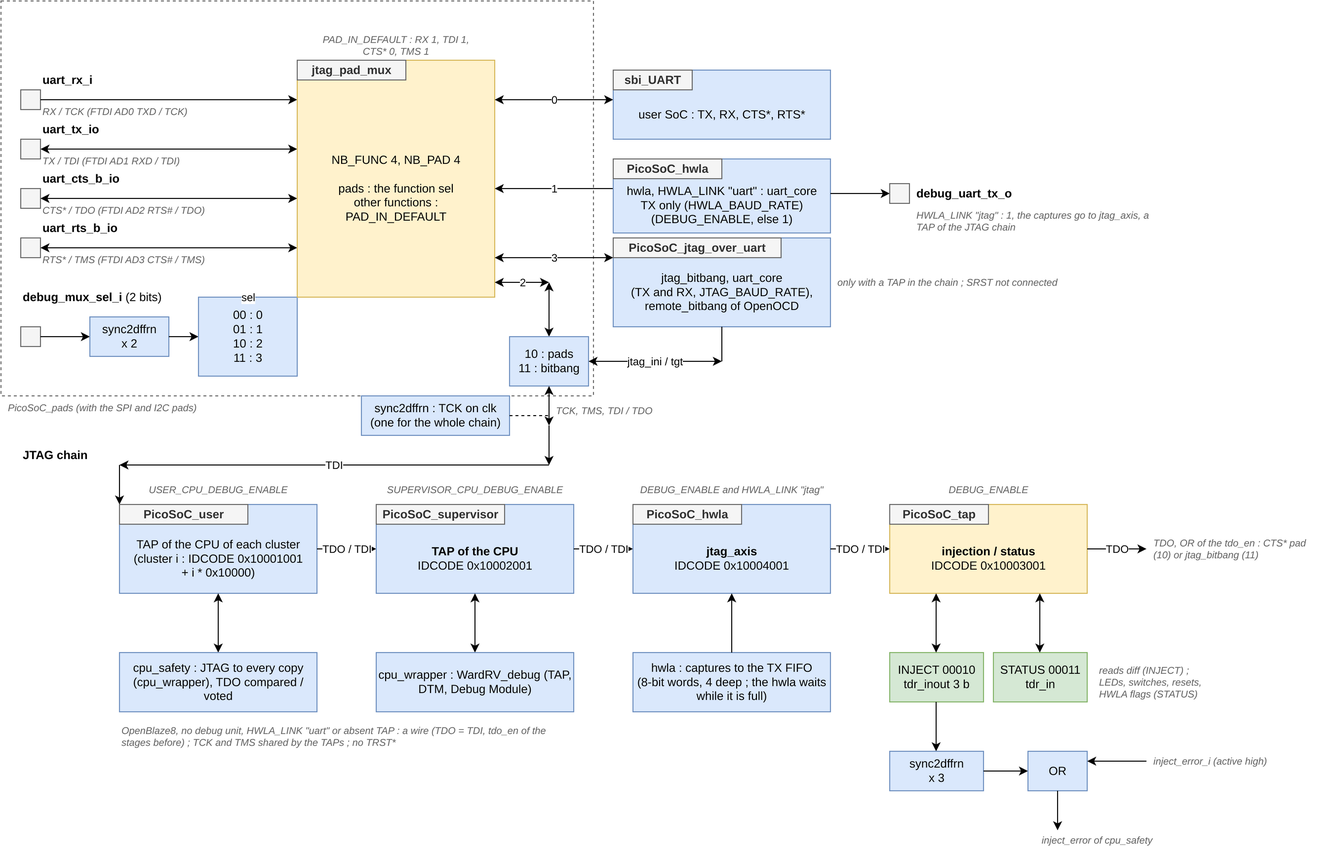
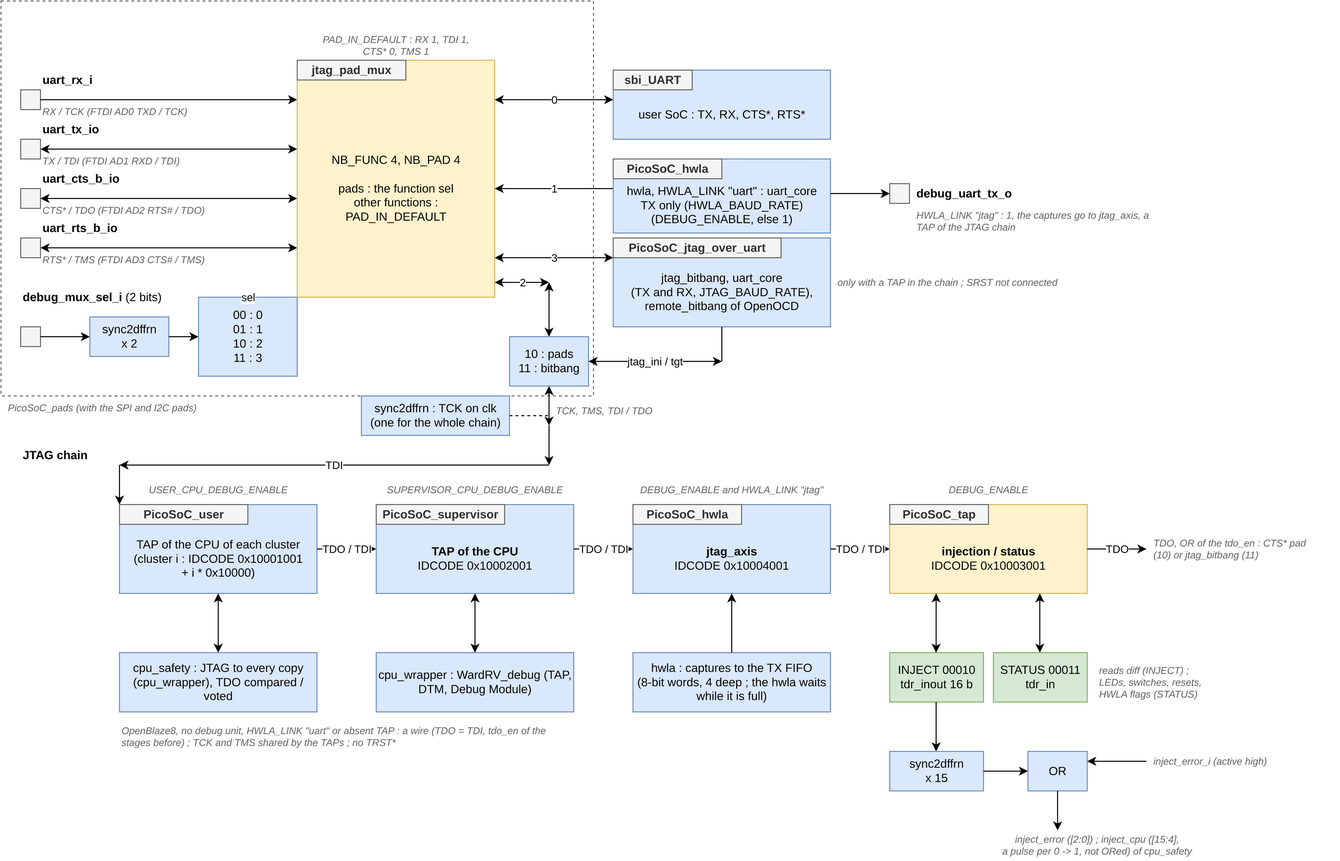
PicoSoC - injection inside the CPUs : 4 bits per CPU copy (INJECT [7:4], [11:8], [15:12] ; the reserved bits 7, 11, 15 become the bit 3 of each copy, [3] stays reserved), inject_cpu_i of PicoSoC_user and cpu_safety on 12 bits, inject_i of cpu_wrapper on 4 bits (default "0000", e.g. bits 2:0 the copi

diff --git a/README.md b/README.md
@@ -451,7 +451,7 @@ With `DEBUG_ENABLE = true`, `PicoSoC_top` instantiates `PicoSoC_hwla` ([hdl/Pico
   | 56:39 (OpenBlaze8), 70:39 (WardRV_fsm) | Instruction (output of the ROM) | `idata` |
   | 59:57 (OpenBlaze8), 73:71 (WardRV_fsm) | Difference flags `diff` of the user SoC (bit 0 CPU0 vs CPU1, 1 CPU1 vs CPU2, 2 CPU2 vs CPU0; sticky until the reset of the user SoC; 000 with `USER_SAFETY = "none"`) | `diff` |
 
-- Trigger: the error injection that reaches the CPUs, whatever its source (push buttons `inject_error_i` or INJECT of the injection / status TAP): the rising edge of the OR of the 3 traps of `PicoSoC_inject` (`USER_FAULT_INJECTION`) and of the pulses of the injection inside the CPUs (INJECT [6:4], [10:8], [14:12]), registered in `PicoSoC_top`; only the copies present (`USER_SAFETY`) count. The trap, not the request: a request of one cycle sets a trap, which flips the instruction bit from its next cycle, so the trigger sample is the first cycle of the error; the edge, not the level: one capture per injection, also while a trap stays set (`USER_SAFETY = "none"`: no difference flag clears it). The HWLA works in every safety configuration; the field `diff` of the capture shows whether and when the compare saw the error (lock-step, TMR: a few to about 60 clock cycles after the trigger in the simulations; none: never).
+- Trigger: the error injection that reaches the CPUs, whatever its source (push buttons `inject_error_i` or INJECT of the injection / status TAP): the rising edge of the OR of the 3 traps of `PicoSoC_inject` (`USER_FAULT_INJECTION`) and of the pulses of the injection inside the CPUs (INJECT [7:4], [11:8], [15:12], the 4 bits of each copy), registered in `PicoSoC_top`; only the copies present (`USER_SAFETY`) count. The trap, not the request: a request of one cycle sets a trap, which flips the instruction bit from its next cycle, so the trigger sample is the first cycle of the error; the edge, not the level: one capture per injection, also while a trap stays set (`USER_SAFETY = "none"`: no difference flag clears it). The HWLA works in every safety configuration; the field `diff` of the capture shows whether and when the compare saw the error (lock-step, TMR: a few to about 60 clock cycles after the trigger in the simulations; none: never).
 - Capture: `HWLA_DEPTH` stored samples (64 by default; 1024 on the NG-MEDIUM targets), `HWLA_PRE_TRIGGER` before the trigger sample (32 by default; 16 on the NG-MEDIUM targets: the capture is mostly after the error), a `HWLA_TIMESTAMP_WIDTH`-bit timestamp (16, cycles of the SoC clock), changes only: a sample is stored when a probe changes (and for the first sample, the trigger sample and the timestamp 0), so a capture of 64 samples covers about 70 (OpenBlaze8) to 130 (WardRV_fsm) clock cycles of the main loop of [esw/demo/user.c](esw/demo/user.c) (tens of instructions), 1024 samples about 1000 to 2000 cycles. `arm_i` is tied to 1: a new capture starts after each extraction, and waits for the next injection.
 - Clock and reset: the SoC clock for both domains of the HWLA, and the reset of the supervisor SoC: a capture goes on while the supervisor resets the user SoC.
 - Output: the bytes of the capture (`TDATA_WIDTH = 8`; with a 16-bit timestamp, a sample is 10 bytes (OpenBlaze8: 60 probes and the timestamp, 76 bits) or 12 bytes (WardRV_fsm: 74 probes, 90 bits), from the LSB; a capture is 640 or 768 bytes with the default generics, 10240 or 12288 bytes on the NG-MEDIUM targets) go to the link chosen by `HWLA_LINK`:
@@ -536,10 +536,10 @@ The IDCODEs (`PICOSOC_JTAG_IDCODE_*` of `PicoSoC_pkg`) are version 1, manufactur
 
 | Instruction | TDR | Bits (from the LSB, first shifted out) |
 |-------------|-----|----------------------------------------|
-| INJECT `00010` | `jtag_tdr_inout`, 16 bits | written, nibble aligned: [2:0] error injection outside the CPUs, bit `i` in CPU `i` (as `inject_error_i`, active high: the instruction bit `SEU_BIT`; trapped, a 1 -> 0 clears the trap of CPU `i`); [6:4], [10:8], [14:12] error injection inside the CPU copy 0, 1, 2, bit `4+4*i+k` = request `k` of copy `i`: a pulse of one SoC clock cycle on bit `k` of `inject_i` (3 bits) of the `cpu_wrapper` of copy `i` (`inject_cpu_i` of `cpu_safety`, 3 x 3 bits, every cluster) for each 0 -> 1 of the bit, so one error per write; unused by the reference CPUs: free for a hardened CPU, connected to its own injection; [3], [7], [11], [15] reserved (0). A write sets the 16 bits: writing the bits inside the CPUs also writes [2:0]. Read: `diff` of the user SoC in [2:0] (0 CPU0 vs CPU1, 1 CPU1 vs CPU2, 2 CPU2 vs CPU0, sticky until the reset of the user SoC), 0 in [15:3] |
+| INJECT `00010` | `jtag_tdr_inout`, 16 bits | written, nibble aligned: [2:0] error injection outside the CPUs, bit `i` in CPU `i` (as `inject_error_i`, active high: the instruction bit `SEU_BIT`; trapped, a 1 -> 0 clears the trap of CPU `i`); [3] reserved (0); [7:4], [11:8], [15:12] error injection inside the CPU copy 0, 1, 2, bit `4+4*i+k` = request `k` of copy `i` (for example bits 2:0 the copies of a TMR register, bit 3 the register file): a pulse of one SoC clock cycle on bit `k` of `inject_i` (4 bits) of the `cpu_wrapper` of copy `i` (`inject_cpu_i` of `cpu_safety`, 3 x 4 bits, every cluster) for each 0 -> 1 of the bit, so one error per write; unused by the reference CPUs: free for a hardened CPU, connected to its own injection. A write sets the 16 bits: writing the bits inside the CPUs also writes [2:0]. Read: `diff` of the user SoC in [2:0] (0 CPU0 vs CPU1, 1 CPU1 vs CPU2, 2 CPU2 vs CPU0, sticky until the reset of the user SoC), 0 in [15:3] |
 | STATUS `00011` | `jtag_tdr_in`, `USER_NB_LED0 + USER_NB_LED1 + 3 + USER_NB_SWITCH + 2 + 4` bits (33 with the defaults) | `led0_o`, `led1_o`, `led_diff_o`, `switch_i`, the resets: user SoC, supervisor SoC (`1`: running), then the flags of the HWLA (`status_o` of `PicoSoC_hwla`): arm (`arm_i`, tied to 1), armed (capture started, trigger not yet seen), triggered (trigger seen, capture not yet extracted), sending (a byte of the capture offered to its link) |
 
-The injection written by an Update-DR (falling edge of TCK) goes through a `sync2dffrn` per bit to the SoC clock. The 9 bits inside the CPUs then go through a register and give a pulse on the rising edge of each bit (`inject_cpu` of `PicoSoC_top` to `PicoSoC_user`, `cpu_safety` and `cpu_wrapper`, gated by `USER_FAULT_INJECTION` in `cpu_safety`; it is also a trigger of the HWLA). [2:0] is ORed with `inject_error_i` after its polarity (`USER_FAULT_POLARITY`) and resynchronized, in `PicoSoC_inject`: either sets the trap of the copy (see [CPU safety](#cpu-safety)). The written value stays until the next scan of INJECT, a Test-Logic-Reset or the power-on reset; a bit written back to 0 clears the trap of its copy (the way to stop an error without safety, where no difference flag clears it). The read values are quasi-static (LEDs, switches, sticky difference flags, resets) or single flags (HWLA): they are loaded in Capture-DR without synchronizer, a bit that changes during the capture may be read old or new.
+The injection written by an Update-DR (falling edge of TCK) goes through a `sync2dffrn` per bit to the SoC clock. The 12 bits inside the CPUs then go through a register and give a pulse on the rising edge of each bit (`inject_cpu` of `PicoSoC_top` to `PicoSoC_user`, `cpu_safety` and `cpu_wrapper`, gated by `USER_FAULT_INJECTION` in `cpu_safety`; it is also a trigger of the HWLA). [2:0] is ORed with `inject_error_i` after its polarity (`USER_FAULT_POLARITY`) and resynchronized, in `PicoSoC_inject`: either sets the trap of the copy (see [CPU safety](#cpu-safety)). The written value stays until the next scan of INJECT, a Test-Logic-Reset or the power-on reset; a bit written back to 0 clears the trap of its copy (the way to stop an error without safety, where no difference flag clears it). The read values are quasi-static (LEDs, switches, sticky difference flags, resets) or single flags (HWLA): they are loaded in Capture-DR without synchronizer, a bit that changes during the capture may be read old or new.
 
 **CPU debug units** (`USER_CPU_DEBUG_ENABLE`, `SUPERVISOR_CPU_DEBUG_ENABLE`, `CPU_MODEL = "WardRV_fsm"`): each `cpu_wrapper` with `DEBUG_ENABLE` instantiates `WardRV_debug` of [asylum-processor-WardRV](https://github.com/deuskane/asylum-processor-WardRV) (TAP, DTM, Debug Module with a program buffer of 2 words and 2 data registers, no system bus access, no TRST*) next to its `sbi_WardRV_fsm`: the halt requests and the debug memory stay inside `cpu_wrapper`, which only has the JTAG pins, the power-on reset of the debug unit and `ndmreset`. With lock-step or TMR, every copy of the CPU has its debug unit: `cpu_safety` receives a TCK already resynchronized on the SoC clock (by `PicoSoC_top`, see JTAG timing below) and gives the JTAG pins to every copy like their other inputs (to CPU1 through the lock-step delay line), and checks their TDO and `ndmreset` like their other outputs (compared with CPU0, which drives them, in lock-step; voted in TMR). So a halted, stepped or resumed CPU stays in lock-step: no difference flag. The supervisor CPU has no copy: `PicoSoC_supervisor` gives the JTAG pins to its debug unit. The debug units are reset by the reset of the supervisor (power-on), not by a reset of the user SoC; `ndmreset` of a debug unit resets the SoC of its CPU (the supervisor SoC holds the user SoC in reset).
 
@@ -622,7 +622,7 @@ With `ft232r`, RXD and CTS# are outputs of the cable and RTS# an input (`ft232r 
 
 | Chain file | Role |
 |------------|------|
-| [picosoc.cfg](tools/openocd/picosoc.cfg) | The JTAG chain (the list `picosoc_chain`: chip, TAP and IDCODE of each TAP, from TDO), a riscv target for each CPU TAP (GDB ports 3333, 3334 ... in the order of the chain), the commands `picosoc_inject <errors>` (INJECT of the injection / status TAP, raw 16 bits: [2:0] outside the CPUs, [6:4], [10:8], [14:12] inside the CPU copy 0, 1, 2), `picosoc_inject_cpu <copy> <mask>` (one injection inside the CPU copy, mask of 3 bits; writes `mask << (4 + 4 * copy)`, then 0, [2:0] at 0), `picosoc_status` (its STATUS), `picosoc_hwla_status` and `picosoc_hwla_dump` (the HWLA, see [Debug: HWLA](#debug-hwla); with the procedures of `jtag_axis.tcl`, a copy of the one of asylum-debug-jtag), then `init`. Any PicoSoC bitstream, no argument: see the two modes below |
+| [picosoc.cfg](tools/openocd/picosoc.cfg) | The JTAG chain (the list `picosoc_chain`: chip, TAP and IDCODE of each TAP, from TDO), a riscv target for each CPU TAP (GDB ports 3333, 3334 ... in the order of the chain), the commands `picosoc_inject <errors>` (INJECT of the injection / status TAP, raw 16 bits: [2:0] outside the CPUs, [7:4], [11:8], [15:12] inside the CPU copy 0, 1, 2), `picosoc_inject_cpu <copy> <mask>` (one injection inside the CPU copy, mask of 4 bits; writes `mask << (4 + 4 * copy)`, then 0, [2:0] at 0), `picosoc_status` (its STATUS), `picosoc_hwla_status` and `picosoc_hwla_dump` (the HWLA, see [Debug: HWLA](#debug-hwla); with the procedures of `jtag_axis.tcl`, a copy of the one of asylum-debug-jtag), then `init`. Any PicoSoC bitstream, no argument: see the two modes below |
 | [picosoc_cmds.tcl](tools/openocd/picosoc_cmds.tcl) | Short commands of the telnet session, sourced by `picosoc.cfg` (`picosoc_help`): `status` (state and pc of every CPU), `select <cpu>`, `stop` / `run` (one CPU or `stop_all` / `run_all`), `stepi`, `halt_cause`, `pc`, `regs`, `read_reg` / `write_reg`, `read_mem` / `write_mem` (32 bits) and `read_byte` / `write_byte` (8 bits: the peripheral registers), `bp_add` / `bp_del`. A CPU is given by its name (`user.cpu0`, `supervisor.cpu`), a short name (`user`, `user1`, `sup`) or its index in `status`. Without System Bus Access, memory is accessed by the CPU itself (program buffer), only while it is halted: `read_mem` / `write_mem` halt a running CPU for the access, then resume it. Checked by the co-simulation `sim_soc3x2_wardrv_fsm_c_user_openocd_generic` |
 | [discover.cfg](tools/openocd/discover.cfg) | Declares no TAP and no target: `picosoc_discover` probes and prints the chain, then the file prints the line `set picosoc_chain {...}` (the chain to give to `picosoc.cfg`) and quits (`shutdown`) |
 | [discover.tcl](tools/openocd/discover.tcl) | Sourced by `picosoc.cfg` and `discover.cfg` (one copy of the discovery): `picosoc_discover` runs `jtag init` in the configuration stage: the adapter starts and OpenOCD probes the chain after Test-Logic-Reset (autoprobe: TAPs `auto0.tap`, `auto1.tap` ... from TDO, IR length from the Capture-IR value); it reads the IDCODEs from `scan_chain` (`jtag cget <tap> -idcode` needs the exec stage), prints the number of TAPs and the IDCODE and PicoSoC name of each TAP (`picosoc_tap`, table below), and returns the chain as a `picosoc_chain` list |
@@ -693,7 +693,7 @@ With the injection / status TAP in the chain (`DEBUG_ENABLE`), GDB drives it thr
 ```bash
 (gdb) monitor picosoc_inject 0x1          # inject an error in CPU0 (INJECT, trapped until diff), prints the difference flags
 (gdb) monitor picosoc_inject 0x0          # end of the injection : the 1 -> 0 clears the trap
-(gdb) monitor picosoc_inject_cpu 1 0x1    # request 0 inside the CPU copy 1 (INJECT [10:8] = 001, then 0) : for a hardened CPU
+(gdb) monitor picosoc_inject_cpu 1 0x8    # request 3 inside the CPU copy 1 (INJECT [11:8] = 1000, then 0) : for a hardened CPU
 (gdb) monitor picosoc_status              # STATUS : led0, led1, led_diff, switch, user / supervisor SoC running
 ```
 
@@ -811,7 +811,7 @@ Clear the old events of a GIC source before unmasking it: the `isr` register als
 | [sim/picosoc/tb_PicoSoC.vhd](sim/picosoc/tb_PicoSoC.vhd) | `PicoSoC_top` | Self-checking UVVM testbench driven by the firmware of the target: drives the switches, `debug_mux_sel_i`, `it_user_i` and `inject_error_i`, checks LED0, LED1, `led_diff_o`, `pwm_o`, the UART lines (UART VIP) and the captures of the HWLA on `debug_uart_tx_o` (UART VIP) or through the TAP of `jtag_axis` (JTAG BFM, `HWLA_LINK = "jtag"`), with a copy of the user ROM `ROM_user` as the reference of the instruction bus; the I2C bus has pull-ups and the UVVM I2C BFM (slave or master of the SoC). The UART pads have pull-ups (a pad driven by nobody reads `'H'`) and a model of the FTDI cable: RX and CTS* driven by the testbench in the UART modes, TCK, TDI and TMS by the JTAG BFM `jtag_bfm_pkg` of [asylum-verification-uvvm](https://github.com/deuskane/asylum-verification-uvvm) in the JTAG mode (`debug_mux_sel_i` `10`, TCK 1 µs), TDO read on `uart_cts_b_io`; the monitor `jtag_ir_capture_monitor` of the BFM checks the Capture-IR value of the whole chain (`00001` per TAP) at each IR scan. [tb_PicoSoC_jtag_pkg](sim/picosoc/tb_PicoSoC_jtag_pkg.vhd) gives the BFM configuration of a TAP of the chain (`jtag_config(cfg, tap)`: the chain fields `head_ir`, `tail_ir`, `head_dr`, `tail_dr`, the other TAPs in BYPASS) and holds the DTM / DMI accesses of a debugger (as `WardRV_vips` of WardRV). In the mode `11` (JTAG over the UART), the cable is a UART: the remote_bitbang BFM `rbb_bfm_pkg` of [asylum-verification-uvvm](https://github.com/deuskane/asylum-verification-uvvm) sends the bytes of the OpenOCD `remote_bitbang` adapter as UART frames on `uart_rx_i` (`JTAG_BAUD_RATE`), as the bitbang driver of OpenOCD 0.12 (TMS moves, IR / DR scans of a TAP of the chain with the same JTAG BFM configuration), and its monitor `rbb_uart_monitor` receives the answers to `'R'` on `uart_tx_io`; [tb_PicoSoC_bitbang_pkg](sim/picosoc/tb_PicoSoC_bitbang_pkg.vhd) holds the PicoSoC part: the BFM configuration of the testbench (`rbb_config`), one BFM call per helper and the DMI accesses of a debugger (`bitbang_dmi`). Generics: the DUT configuration (CPU, clusters, safety, polarities), `TESTS_LIST`, `FIRMWARE` (program of the user ROM: `identity`, `user`, `user_uart`, `user_uart_spi`, `user_uart_spi_mem`, `hello` or an integration firmware `test_<ip>`; it selects the scenarios that apply), `TB_WATCHDOG` (timeout of each wait, in `clk_i` cycles) and `SPI_MODEL` (`m25p40` / `s25fl512s` flash model preloaded with [sim/mem/memory.mem](sim/mem/memory.mem)). Scenarios in `tb_PicoSoC_<name>_pkg`, names, applicability and dispatch in [tb_PicoSoC_tests_pkg](sim/picosoc/tb_PicoSoC_tests_pkg.vhd), helpers in [tb_PicoSoC_bfm_pkg](sim/picosoc/tb_PicoSoC_bfm_pkg.vhd). With an integration firmware, a UART console logs every line and stops on `FAIL <step>`, whatever the scenario waits for |
 | [sim/modbus_rtu/tb_PicoSoC_modbus_rtu.vhd](sim/modbus_rtu/tb_PicoSoC_modbus_rtu.vhd) | `PicoSoC_top` | UVVM testbench of [esw/protocol/user_modbus_rtu.c](esw/protocol/user_modbus_rtu.c): the UART VIP is the Modbus RTU master (CRC16 computed by the bench) and reads / writes the SoC addresses. Scenarios in `tb_PicoSoC_modbus_rtu_<name>_pkg`, dispatch in [tb_PicoSoC_modbus_rtu_tests_pkg](sim/modbus_rtu/tb_PicoSoC_modbus_rtu_tests_pkg.vhd), Modbus frames in [tb_PicoSoC_modbus_rtu_bfm_pkg](sim/modbus_rtu/tb_PicoSoC_modbus_rtu_bfm_pkg.vhd) |
 | [sim/openocd/tb_PicoSoC_openocd.vhd](sim/openocd/tb_PicoSoC_openocd.vhd) | `PicoSoC_top` | OpenOCD + GDB co-simulation (see [Co-simulation with OpenOCD and GDB](#co-simulation-with-openocd-and-gdb)): OpenOCD drives the JTAG chain through the UART pads, with the entities of the co-simulation kit `asylum:verification:openocd` of [asylum-verification-uvvm](https://github.com/deuskane/asylum-verification-uvvm): `rbb_jtag` on the JTAG pins (`DEBUG_MUX_SEL` `10`), or `rbb_axis` and a UART bridge (UART VIP, `JTAG_BAUD_RATE`) for JTAG over the UART (`11`); GDB runs [sim/openocd/picosoc.py](sim/openocd/picosoc.py). Before OpenOCD the firmware runs (LED0 = switches); after OpenOCD quits, `led_diff_o` shows the error injected by the scenario (with `USER_FAULT_INJECTION`; else no difference flag) and LED0 follows new switches. Generics: the DUT configuration (with `USER_NB_CPU`), `DEBUG_MUX_SEL`; the scenario is the hook of the target (`picosoc.py`, `chain.cfg` or `discover_check.cfg`); the chain of the generics is written in `cosim.cfg` (`PICOSOC_CHAIN`, read by `discover_check.cfg`) |
-| [sim/tap/tb_PicoSoC_tap.vhd](sim/tap/tb_PicoSoC_tap.vhd) | `PicoSoC_tap` | The injection / status TAP alone, with the JTAG BFM on its pins (TCK resynchronized on `clk_i` by two flip-flops, as in `PicoSoC_top`) and a count of the pulses of `inject_cpu_o` (rising edges and cycles at 1 per bit). Scenarios in [tb_PicoSoC_tap_pkg](sim/tap/tb_PicoSoC_tap_pkg.vhd): `inject` ([2:0] written 010: `inject_error_o` = 010 until a write of 0, no pulse; the capture reads `diff_i` in [2:0], 0 in [15:3]) and `inject_cpu` (for each copy `i` and bit `k`, the bit `4+4*i+k` alone: exactly one pulse of one `clk_i` cycle on `inject_cpu_o(3*i+k)`, none on the other bits nor on `inject_error_o`; the same value again and 0: no pulse; the 9 bits together: one pulse on each; the reserved bits: no pulse) |
+| [sim/tap/tb_PicoSoC_tap.vhd](sim/tap/tb_PicoSoC_tap.vhd) | `PicoSoC_tap` | The injection / status TAP alone, with the JTAG BFM on its pins (TCK resynchronized on `clk_i` by two flip-flops, as in `PicoSoC_top`) and a count of the pulses of `inject_cpu_o` (rising edges and cycles at 1 per bit). Scenarios in [tb_PicoSoC_tap_pkg](sim/tap/tb_PicoSoC_tap_pkg.vhd): `inject` ([2:0] written 010: `inject_error_o` = 010 until a write of 0, no pulse; the capture reads `diff_i` in [2:0], 0 in [15:3]) and `inject_cpu` (for each copy `i` and bit `k`, the bit `4+4*i+k` alone: exactly one pulse of one `clk_i` cycle on `inject_cpu_o(4*i+k)` (bit 3 of each copy included), none on the other bits nor on `inject_error_o`; the same value again and 0: no pulse; the 12 bits together: one pulse on each; the reserved bit [3]: no pulse) |
 
 Waveform setups: [sim/wave/waves.gtkw](sim/wave/waves.gtkw), [sim/wave/cpus.gtkw](sim/wave/cpus.gtkw).
 
@@ -835,7 +835,7 @@ The scenarios are chosen at run time with the generic `TESTS_LIST`: names separa
 | `pad_mux` | 26 (22 without `DEBUG_ENABLE` or fault injection, or with `HWLA_LINK = "jtag"`) | `user_uart*` | Each code of `debug_mux_sel_i` (switches with the MSBs `00`: they no longer select the pads): `00` banner and echo (CTS* held from the CR of the banner, the echo in the first loop line), RTS* driven, CTS* not driven by the SoC; `11` TX pad driven by the UART of `jtag_bitbang` (idle), RTS* and CTS* not driven, the firmware does not wait; `01` the loop lines of the firmware do not reach the TX pad, idle (`'1'`), CTS* and RTS* not driven, the firmware does not wait (LED0 follows the switches); `10` TDI, TMS and TDO pads not driven by the SoC out of a scan, the firmware does not wait; back to `00`: a quiet line (CTS* held two characters), the end of the current line, then a complete `Loop` line; with `DEBUG_ENABLE` and fault injection, `01` again: an error in CPU0 triggers the HWLA, its capture is on the TX pad, bit by bit equal to `debug_uart_tx_o` during 3 bytes |
 | `jtag_chain` | 6 + 2 x TAPs (8 to 12) | `user*`, at least one TAP | JTAG mode, LED0 = switches (also with several clusters: `user.c` runs its mailbox test on hart 0 only); TDO not driven out of a scan; after Test-Logic-Reset one DR scan reads the IDCODE of every TAP in the chain order; every TAP in BYPASS: a DR scan is delayed by one bit per TAP; IDCODE of each TAP alone, the others in BYPASS; Capture-IR of the whole chain by the monitor |
 | `jtag_inject` | 9 (no supervisor), 11 (supervisor) | `user*`, `DEBUG_ENABLE`, fault injection, no supervisor or lock-step | An error injected in CPU1 through INJECT (written `010`; the scan reads diff = `000` before); no supervisor: `led_diff_o` = flags of CPU1 (`001` lock-step, `011` TMR), read back through INJECT, sticky (read again); supervisor: the user SoC is reset and `led_diff_o` counts, diff `001` read during the injection, after it the firmware runs again, no more reset, diff `000` |
-| `jtag_inject_cpu` | 15 | `user*`, `DEBUG_ENABLE` | Injection inside the CPUs in the whole SoC: for each copy `i`, INJECT written with its 3 bits (`4+4*i` to `6+4*i`), then 0: INJECT reads `diff` = `000` and 0 in [15:3]; with fault injection the HWLA, armed before (flags of STATUS), is triggered by the pulses of the copy 0; [2:0] stayed 0: no difference flag, and the firmware still follows the switches (the reference CPUs do not use `inject_i`). The pulses themselves are checked on `PicoSoC_tap` by `tb_PicoSoC_tap` (GHDL 6.0.0 crashes at the elaboration of an external name to `inject_cpu_i` of `cpu_safety`) |
+| `jtag_inject_cpu` | 16 | `user*`, `DEBUG_ENABLE` | Injection inside the CPUs in the whole SoC: with fault injection the HWLA, armed before (flags of STATUS), is triggered by the bit 3 of the copy 0 alone (INJECT [7], then 0); then for each copy `i`, INJECT written with its 4 bits (`4+4*i` to `7+4*i`), then 0: INJECT reads `diff` = `000` and 0 in [15:3]; [2:0] stayed 0: no difference flag, and the firmware still follows the switches (the reference CPUs do not use `inject_i`). The pulses themselves are checked on `PicoSoC_tap` by `tb_PicoSoC_tap` (GHDL 6.0.0 crashes at the elaboration of an external name to `inject_cpu_i` of `cpu_safety`) |
 | `jtag_status` | 8 (no supervisor), 10 (supervisor), 14 (supervisor, `HWLA_LINK = "jtag"`) | `user*`, `DEBUG_ENABLE` | STATUS read after reset, after new switches (`0x05`) and an `it_user_i` pulse (LED1 = 1), and with fault injection after an error in CPU0, a request of one cycle trapped until the difference flag (the UART writes of the loop line stall the fetches of the CPU) (`led_diff_o`); compared with the pins, resets `11`; the flags of the HWLA above them: armed (`0011`: arm, armed) after reset, triggered and sending (`1101`) after the error (read until they change, at most 100 scans: the HWLA moves on the SoC clock); with `HWLA_LINK = "jtag"` and a supervisor, the capture is then read through the TAP of `jtag_axis` until its TX FIFO is empty (the bytes of one capture, 704 with the default generics) and the HWLA is armed again (the reset of the user SoC cleared the difference flag). `arm_i` is tied to 1, so there is no state before arm to read; with the UART link the end of the capture (60 ms) is not waited for |
 | `jtag_cpu_user` | 27 (lock-step, with the injection TAP), 25 (TMR, without) | `user*`, `USER_CPU_DEBUG_ENABLE` | Debugger of the user CPU through the chain: dtmcs `0x00005071`, `dmactive`, `dmstatus` running, `havereset` acknowledged; `haltreq`: `allhalted`; halted, LED0 does not follow the switches; `resumereq`: `allresumeack`, `allrunning`, LED0 follows again; `led_diff_o` stays 0 (lock-step: no reset counted by the supervisor; TMR: no difference flag): the copies of the CPU halt and resume together; `ndmreset`: the user SoC in reset (LED0 = 0, STATUS resets `10` with the injection TAP), then the firmware runs again |
 | `jtag_cpu_supervisor` | 26 | `user*`, `SUPERVISOR_CPU_DEBUG_ENABLE` | Debugger of the supervisor CPU: as above; halted, an error (`inject_error_i`) is not handled (`led_diff_o` = 0); resumed, the user SoC is reset and the error counted; `ndmreset`: the supervisor SoC in reset holds the user SoC in reset (STATUS resets `00`), then both run again |
@@ -1056,7 +1056,7 @@ The scenario `hwla` was validated with 21 mutants in copies of the RTL, both CPU
 
 The trigger on the error injection and the field `diff` were validated with 2 mutants in copies of the RTL: the trigger still on the difference flags (the OR of `diff`) is killed by `sim_soc1_wardrv_fsm_fault_c_user_hwla` and `_hwla_tap` (`USER_SAFETY = "none"`: no difference, no capture); `diff` not captured (`"000"` in the probes) is killed by `sim_soc2_wardrv_fsm_fault_c_user_hwla` and `sim_soc5_wardrv_fsm_fault_c_user_hwla` (the field `diff` stays `000` after the trigger).
 
-The injection inside the CPUs was validated with 3 mutants: a level instead of a pulse (`inject_cpu_o` = the synchronized INJECT bits) and the copies and bits swapped (bit `4+4*k+i` to `inject_cpu_o(3*i+k)`) are killed by `sim_tap_inject_cpu` (`sim_tap_inject` and `sim_soc3_wardrv_fsm_fault_c_user_uart_jtag_jtag_inject_cpu` pass: [2:0] and the read back do not change); the pulses left out of the trigger of the HWLA are killed by `sim_soc3_wardrv_fsm_fault_c_user_uart_jtag_jtag_inject_cpu` (the HWLA stays armed).
+The injection inside the CPUs (4 bits per copy) was validated with 4 mutants: a level instead of a pulse (`inject_cpu_o` = the synchronized INJECT bits), the copies swapped (copy `i` from the bits of copy `2-i`) and the bit 3 of each copy taken from its bit 0 are killed by `sim_tap_inject_cpu` (`sim_tap_inject` passes: [2:0] does not change); the bit 3 left out of the trigger of the HWLA is killed by `sim_soc3_wardrv_fsm_fault_c_user_uart_jtag_jtag_inject_cpu` (the HWLA stays armed).
 
 The UART pads and the JTAG scenarios were validated with 30 mutants in copies of the RTL, each scenario run alone on the 3 JTAG configurations (and `fault_diff` for the buttons), 420 runs: pad select decode (`10`, `01`, wrong switch bit), TDO of the chain from another TAP, a CPU TAP missing from the chain, injection without the buttons, without the TDR, ORed before the polarity or inverted, INJECT / STATUS decoded the other way round, diff not read, STATUS fields swapped, output enables stuck or wrong in one mode (RTS* / TMS stuck at 1 or 0, CTS* / TDO driven in a UART mode, TX / TDI driven in the JTAG mode, TDO always driven), CTS* default inactive, debug requests not reaching CPU1 (lock-step) or CPU2 (TMR), debug memory answers of CPU1 not delayed, `ndmreset` not connected, no synchronizer input: 27 are killed. The 3 survivors are not observable with the fault model of the SoC or the firmware: RX default `0` (the break received by the user UART out of its modes only feeds the echo, which goes to the unselected TX pad), no compare and no vote of the debug memory accesses of the copies (`inject_error_i` flips the instructions of the program ROM, the debug code comes from the Debug Module: a fault never reaches these accesses).
 
